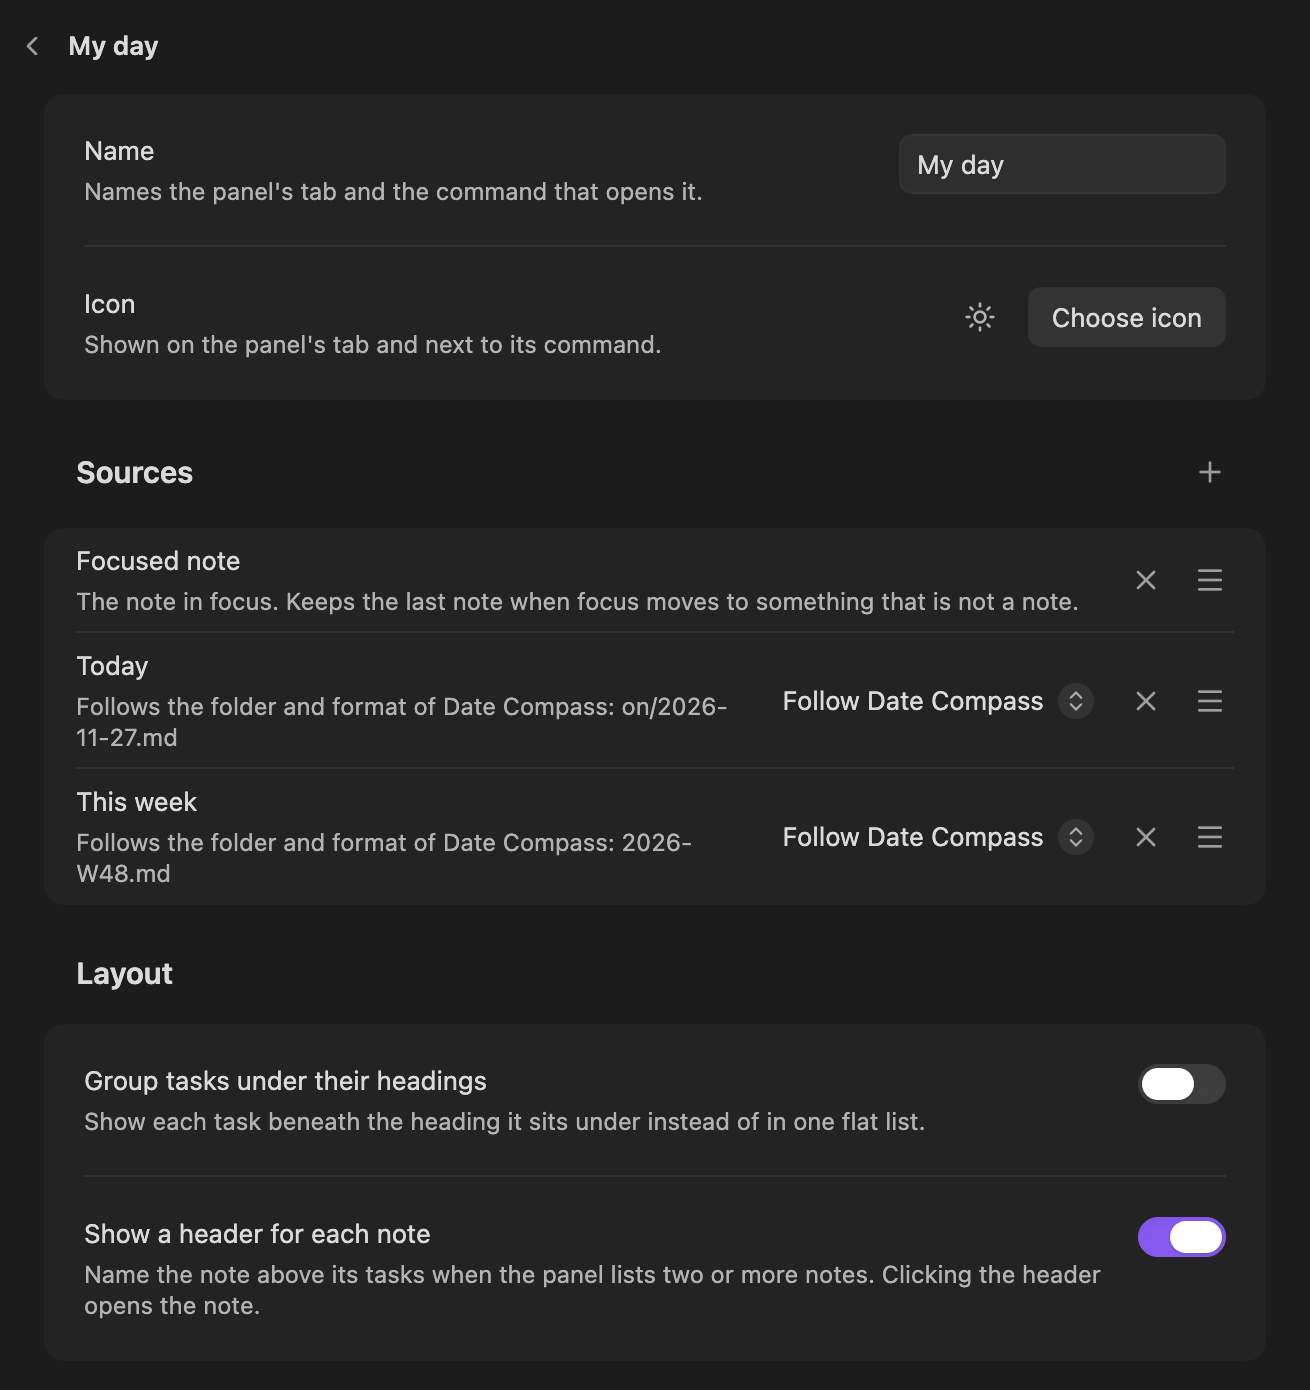
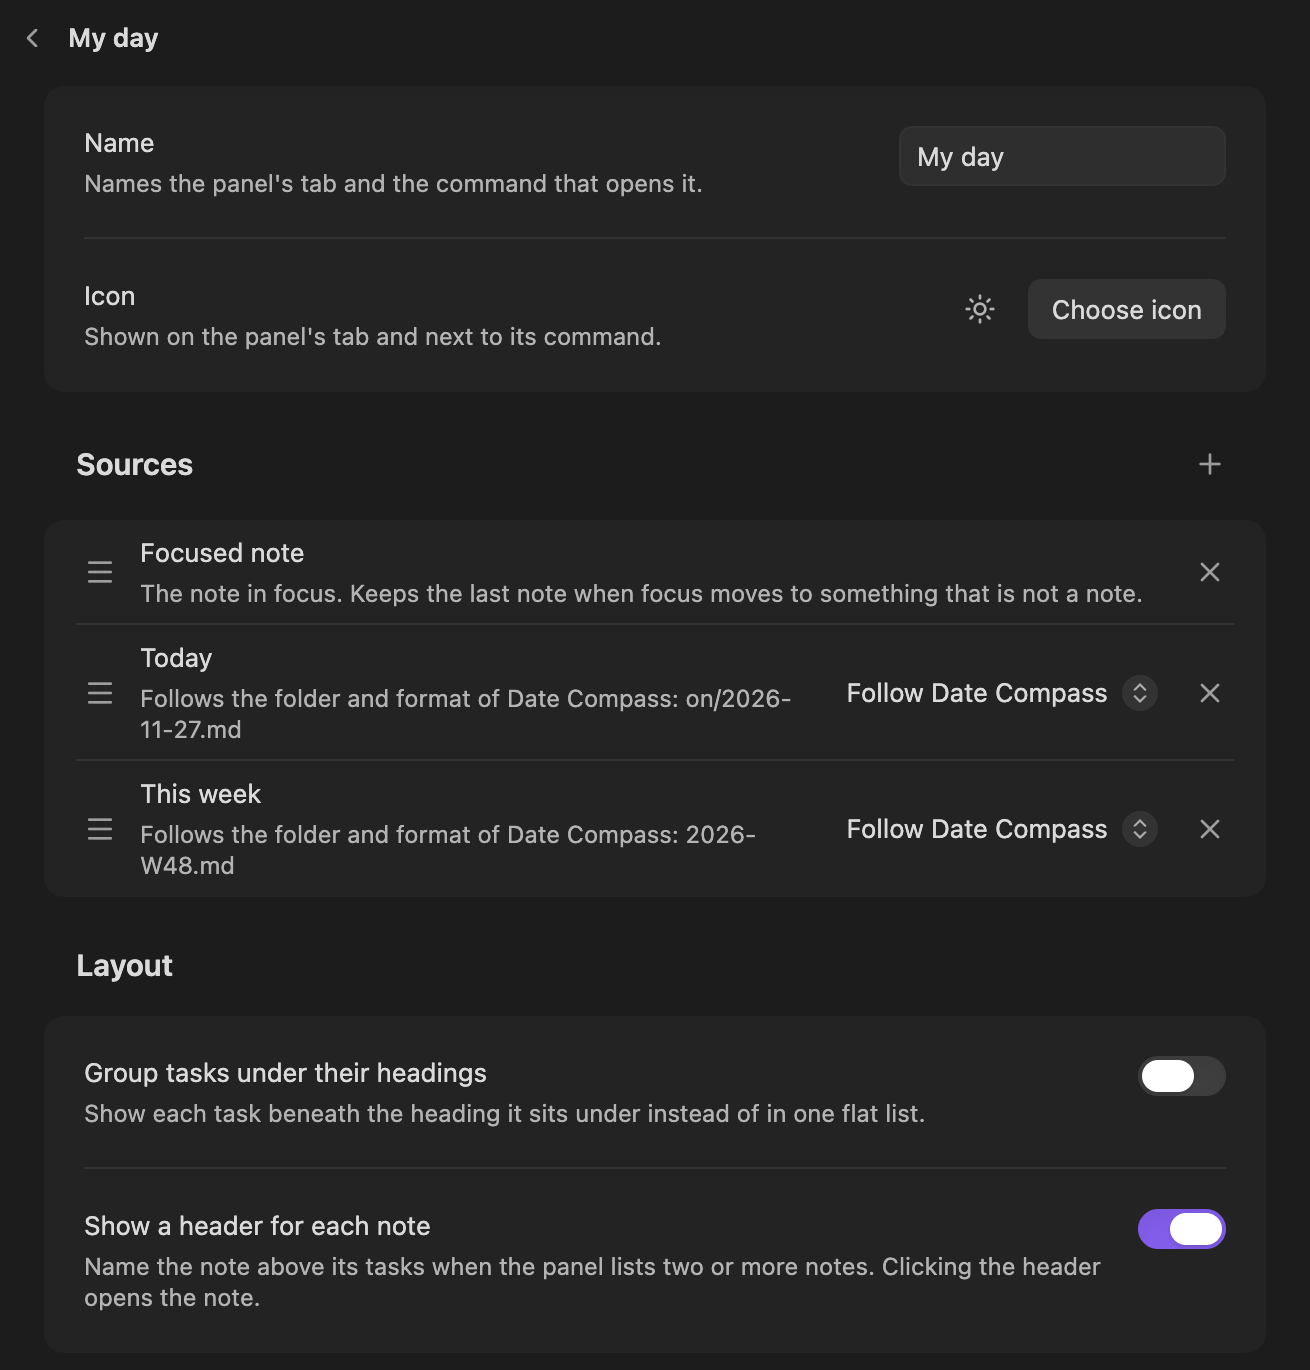
Put the drag handle on the left of each source row

diff --git a/src/settingsTab.ts b/src/settingsTab.ts
@@ -460,14 +460,17 @@ export class TaskOverviewSettingTab extends PluginSettingTab {
 
 	private sourceRow(sources: Source[], source: Source, index: number): SettingDefinition {
 		const name = this.sourceName(source);
-		if (source.kind === "focused") return { id: source.kind, name, desc: FOCUSED_SOURCE_DESC };
+		if (source.kind === "focused") return { id: source.kind, name, desc: FOCUSED_SOURCE_DESC, render: markSourceRow };
 		if (source.kind === "note") {
 			const firstWithPath = sources.findIndex((other) => other.kind === "note" && other.path === source.path);
 			return {
 				id: firstWithPath === index ? `note:${source.path}` : `note:${source.path}:${index}`,
 				name,
 				desc: this.noteDesc(source.path),
-				render: (setting) => void setting.setDesc(this.noteDesc(source.path)),
+				render: (setting) => {
+					markSourceRow(setting);
+					setting.setDesc(this.noteDesc(source.path));
+				},
 			};
 		}
 		return {
@@ -475,6 +478,7 @@ export class TaskOverviewSettingTab extends PluginSettingTab {
 			name,
 			desc: this.periodicDesc(source),
 			render: (setting) => {
+				markSourceRow(setting);
 				this.sourceRows.set(source, setting);
 				setting.setDesc(this.periodicDesc(source));
 				this.addFollowControl(setting, source);
@@ -642,4 +646,8 @@ function isPeriodic(source: Source): source is PeriodicSource {
 
 function readText(value: unknown): string {
 	return typeof value === "string" ? value : "";
+}
+
+function markSourceRow(setting: Setting): void {
+	setting.settingEl.addClass("task-overview-source-row");
 }

diff --git a/styles.css b/styles.css
@@ -199,3 +199,19 @@
 	display: flex;
 	align-items: center;
 }
+
+.task-overview-source-row {
+	gap: var(--size-4-2);
+}
+
+.task-overview-source-row > .setting-item-control {
+	display: contents;
+}
+
+.task-overview-source-row > .setting-item-control > .mod-drag-handle {
+	order: -1;
+}
+
+.task-overview-source-row > .setting-item-info {
+	flex: 1 1 auto;
+}
